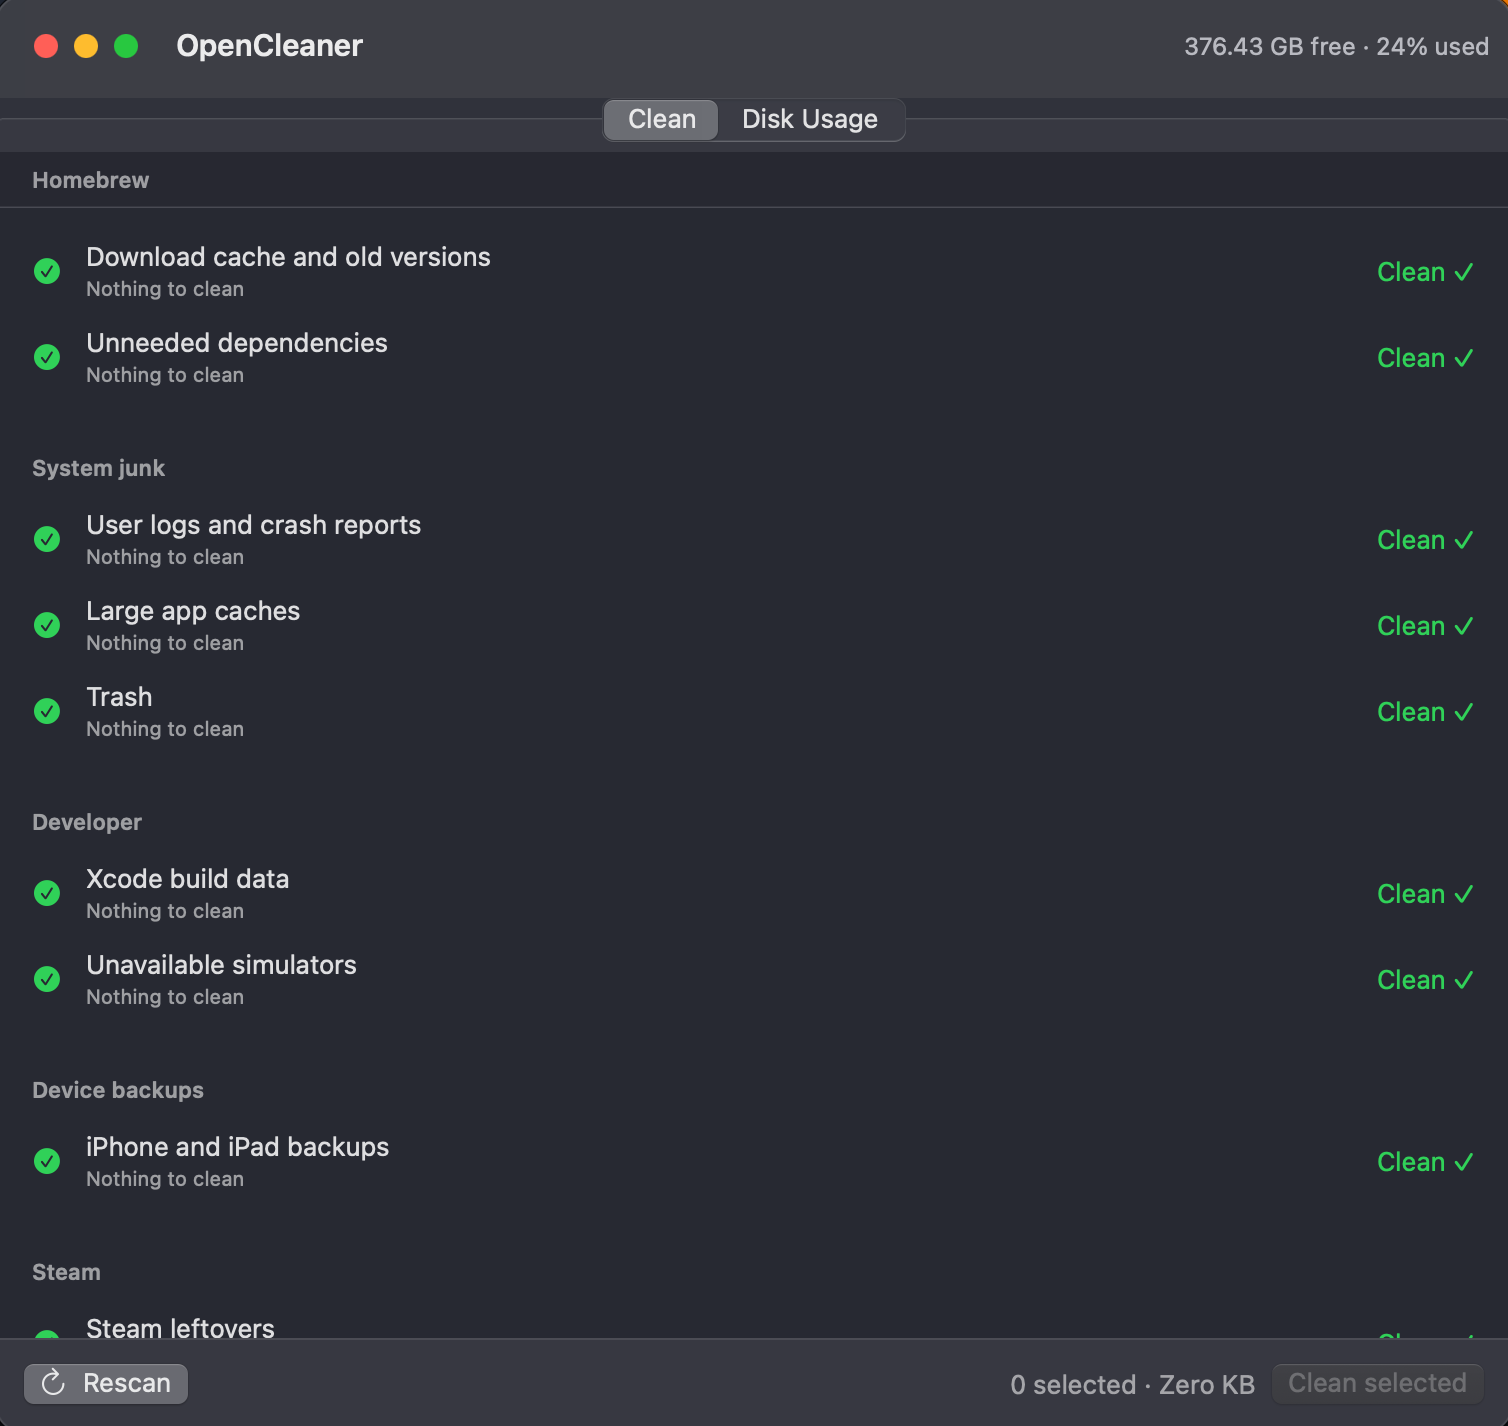
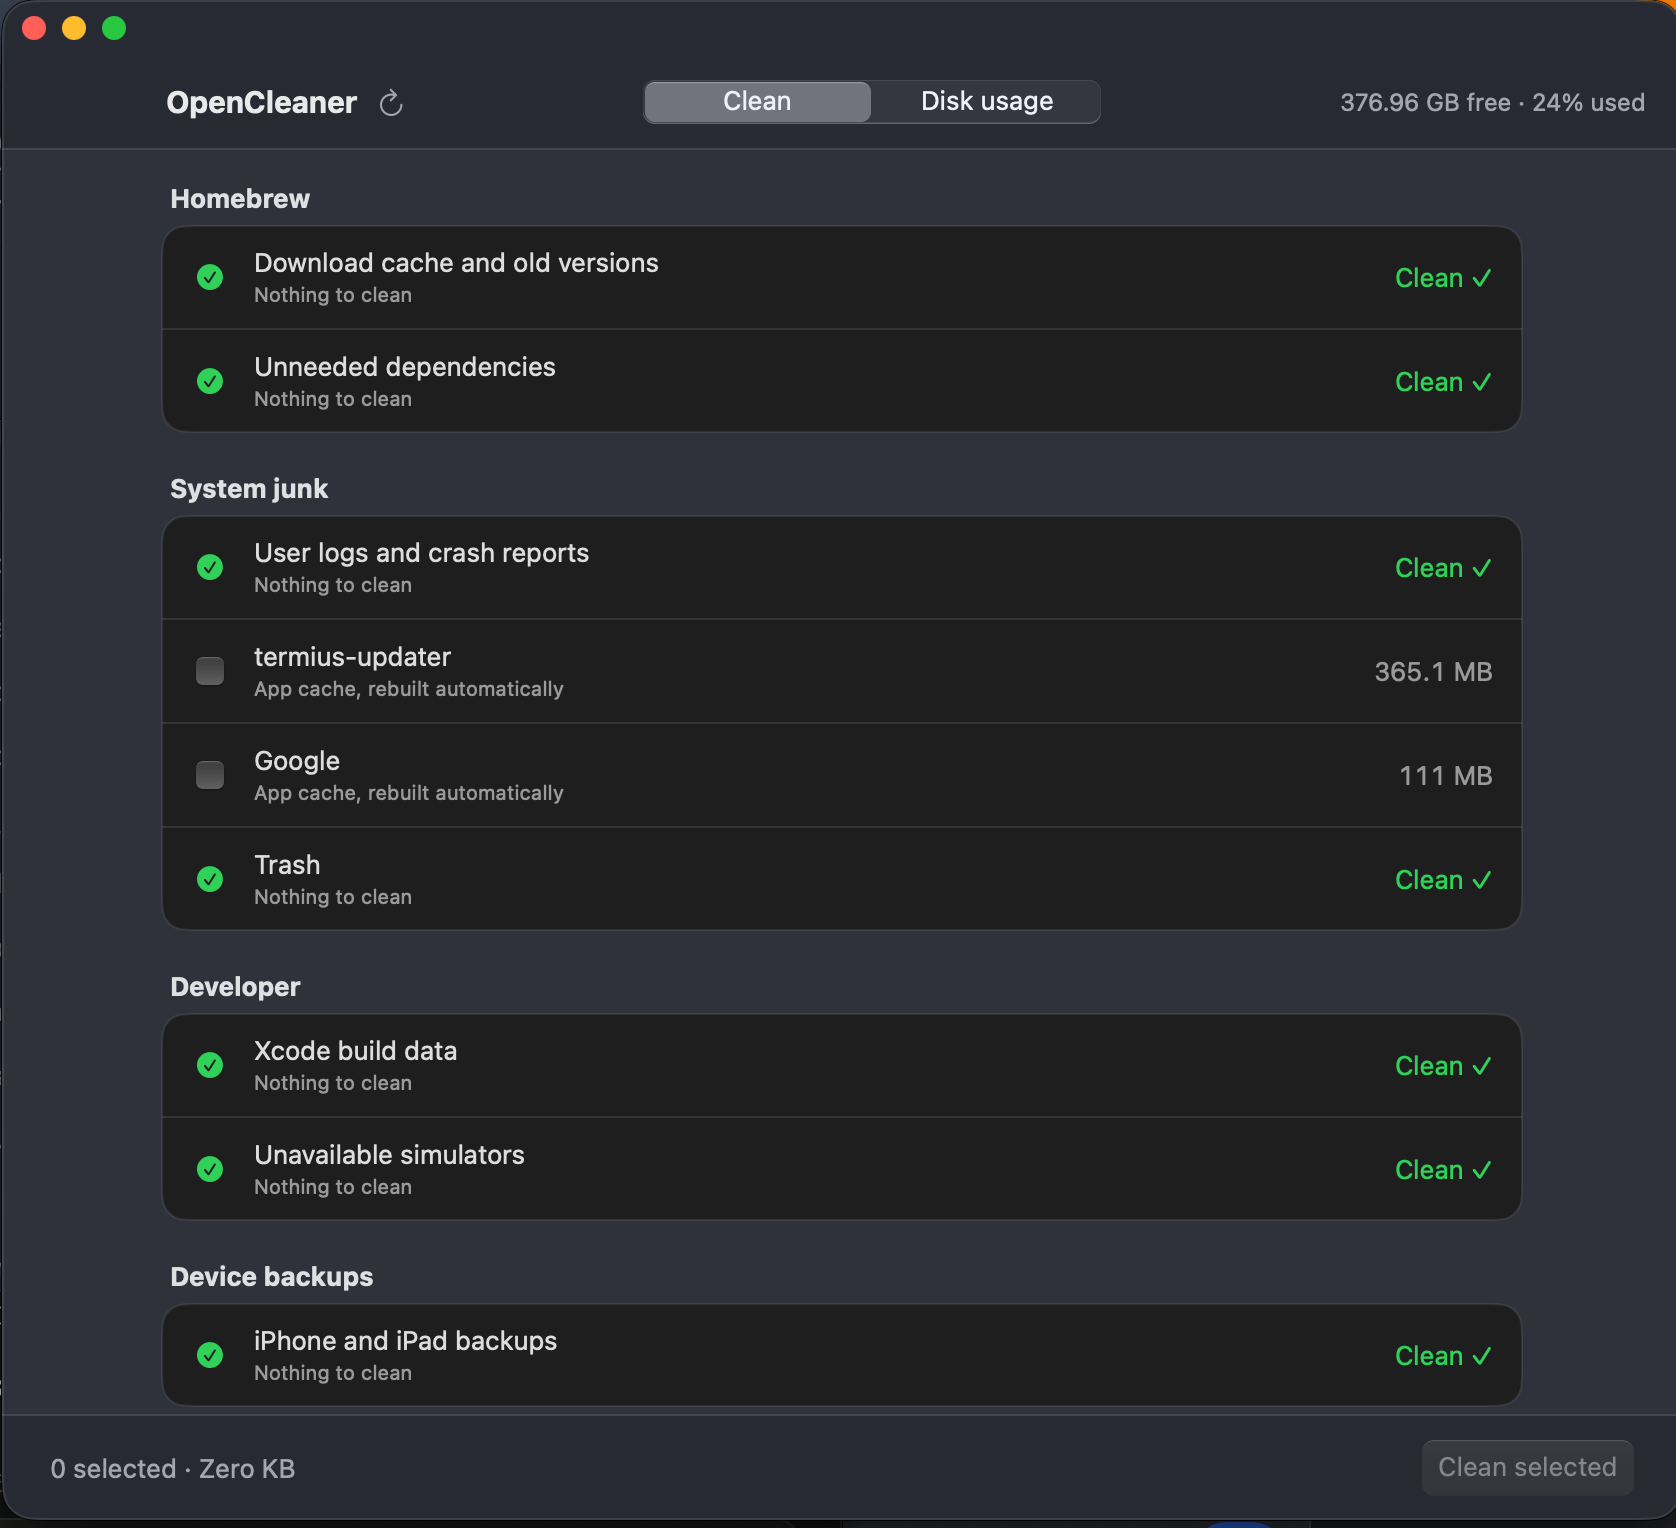
Update macOS screenshots after the restyle; add Linux screenshots

diff --git a/README.md b/README.md
@@ -15,6 +15,13 @@ nothing to remove, plus a disk-usage browser to find what is really taking space
 
 ## Screenshots
 
+Linux (`linux-cachyos/`):
+
+<p>
+  <img src="docs/screenshots/linux-clean.png" width="49%" alt="Linux: Clean view">
+  <img src="docs/screenshots/linux-disk.png" width="49%" alt="Linux: Disk usage view">
+</p>
+
 macOS (`macos/`):
 
 <p>
